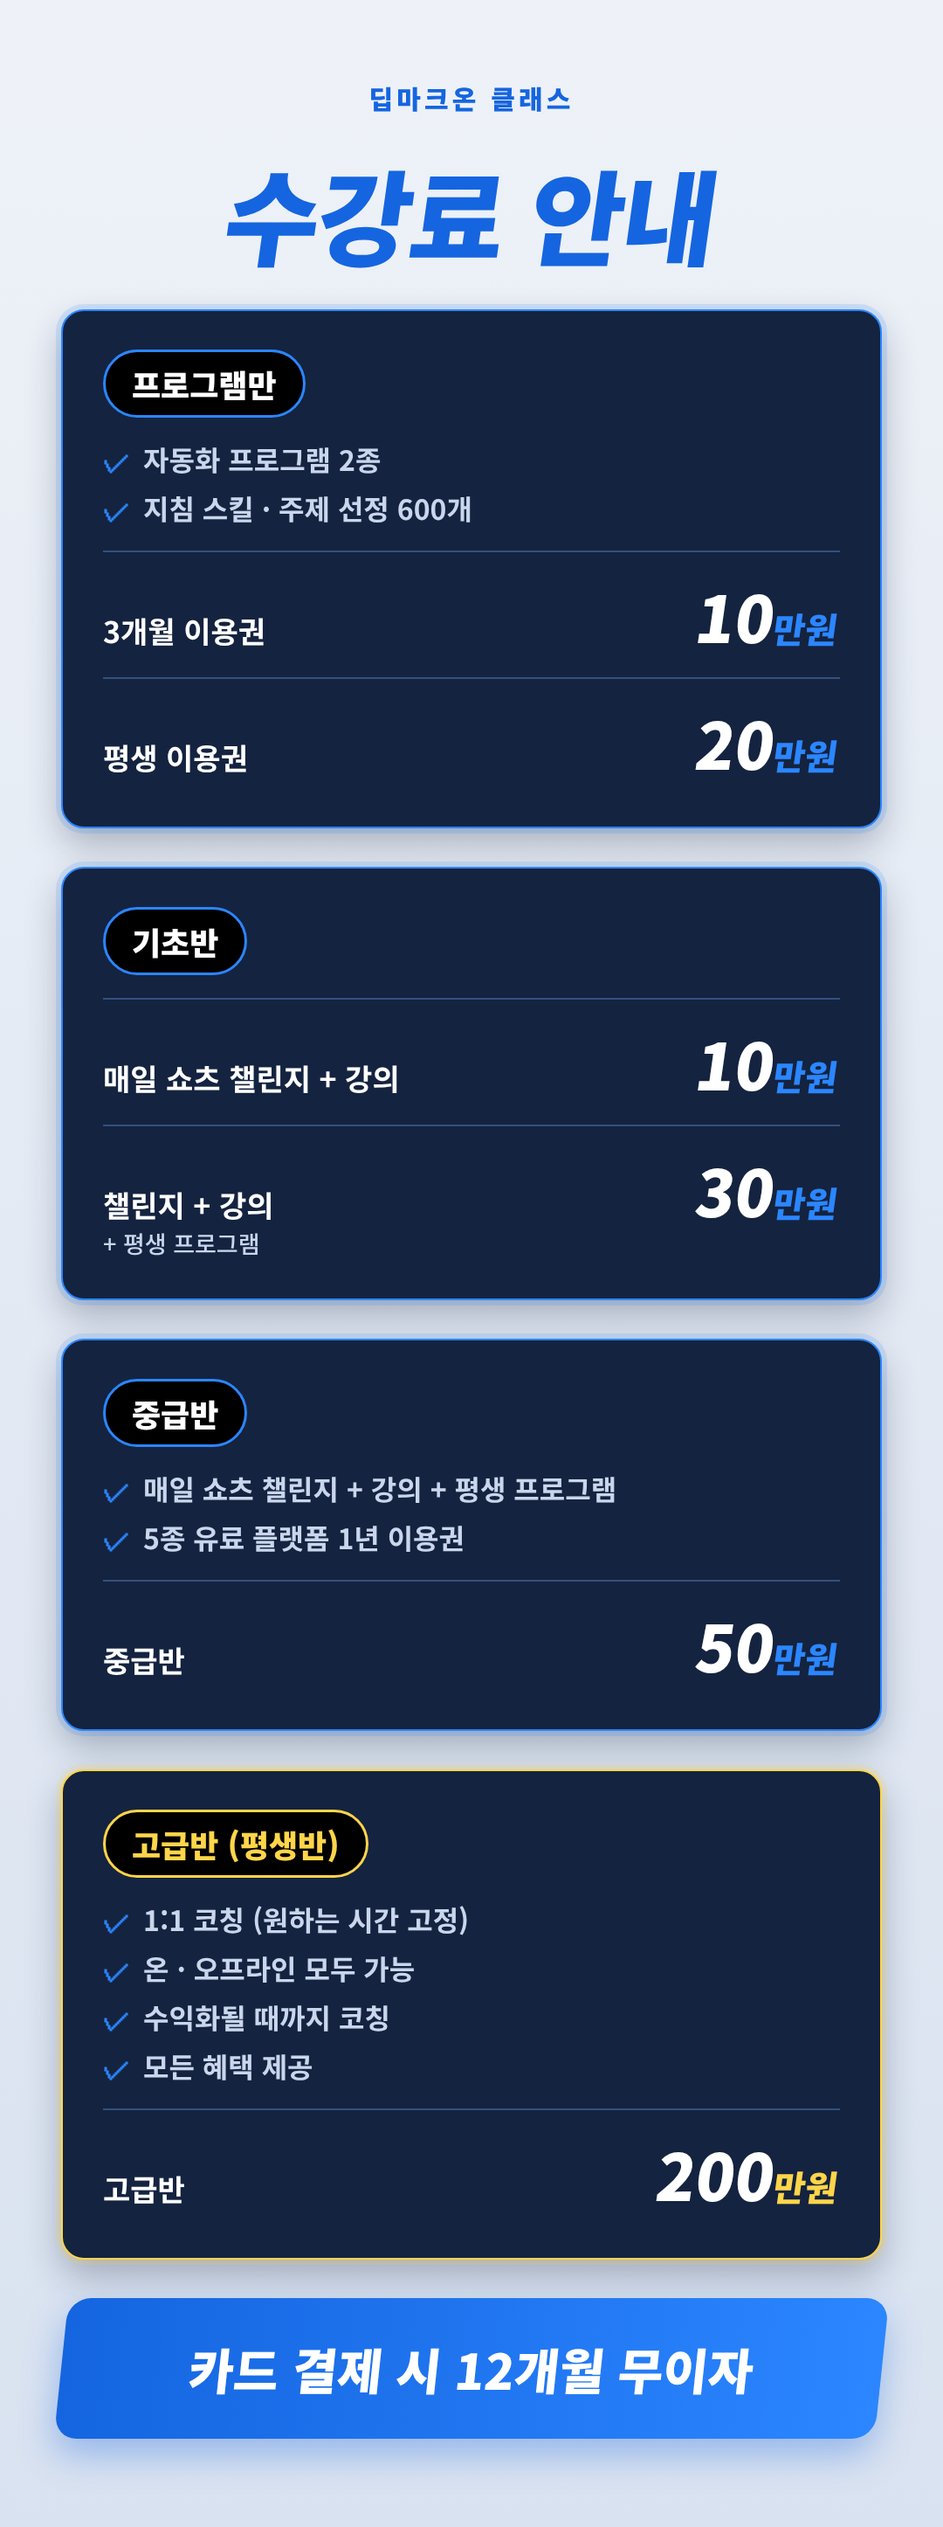
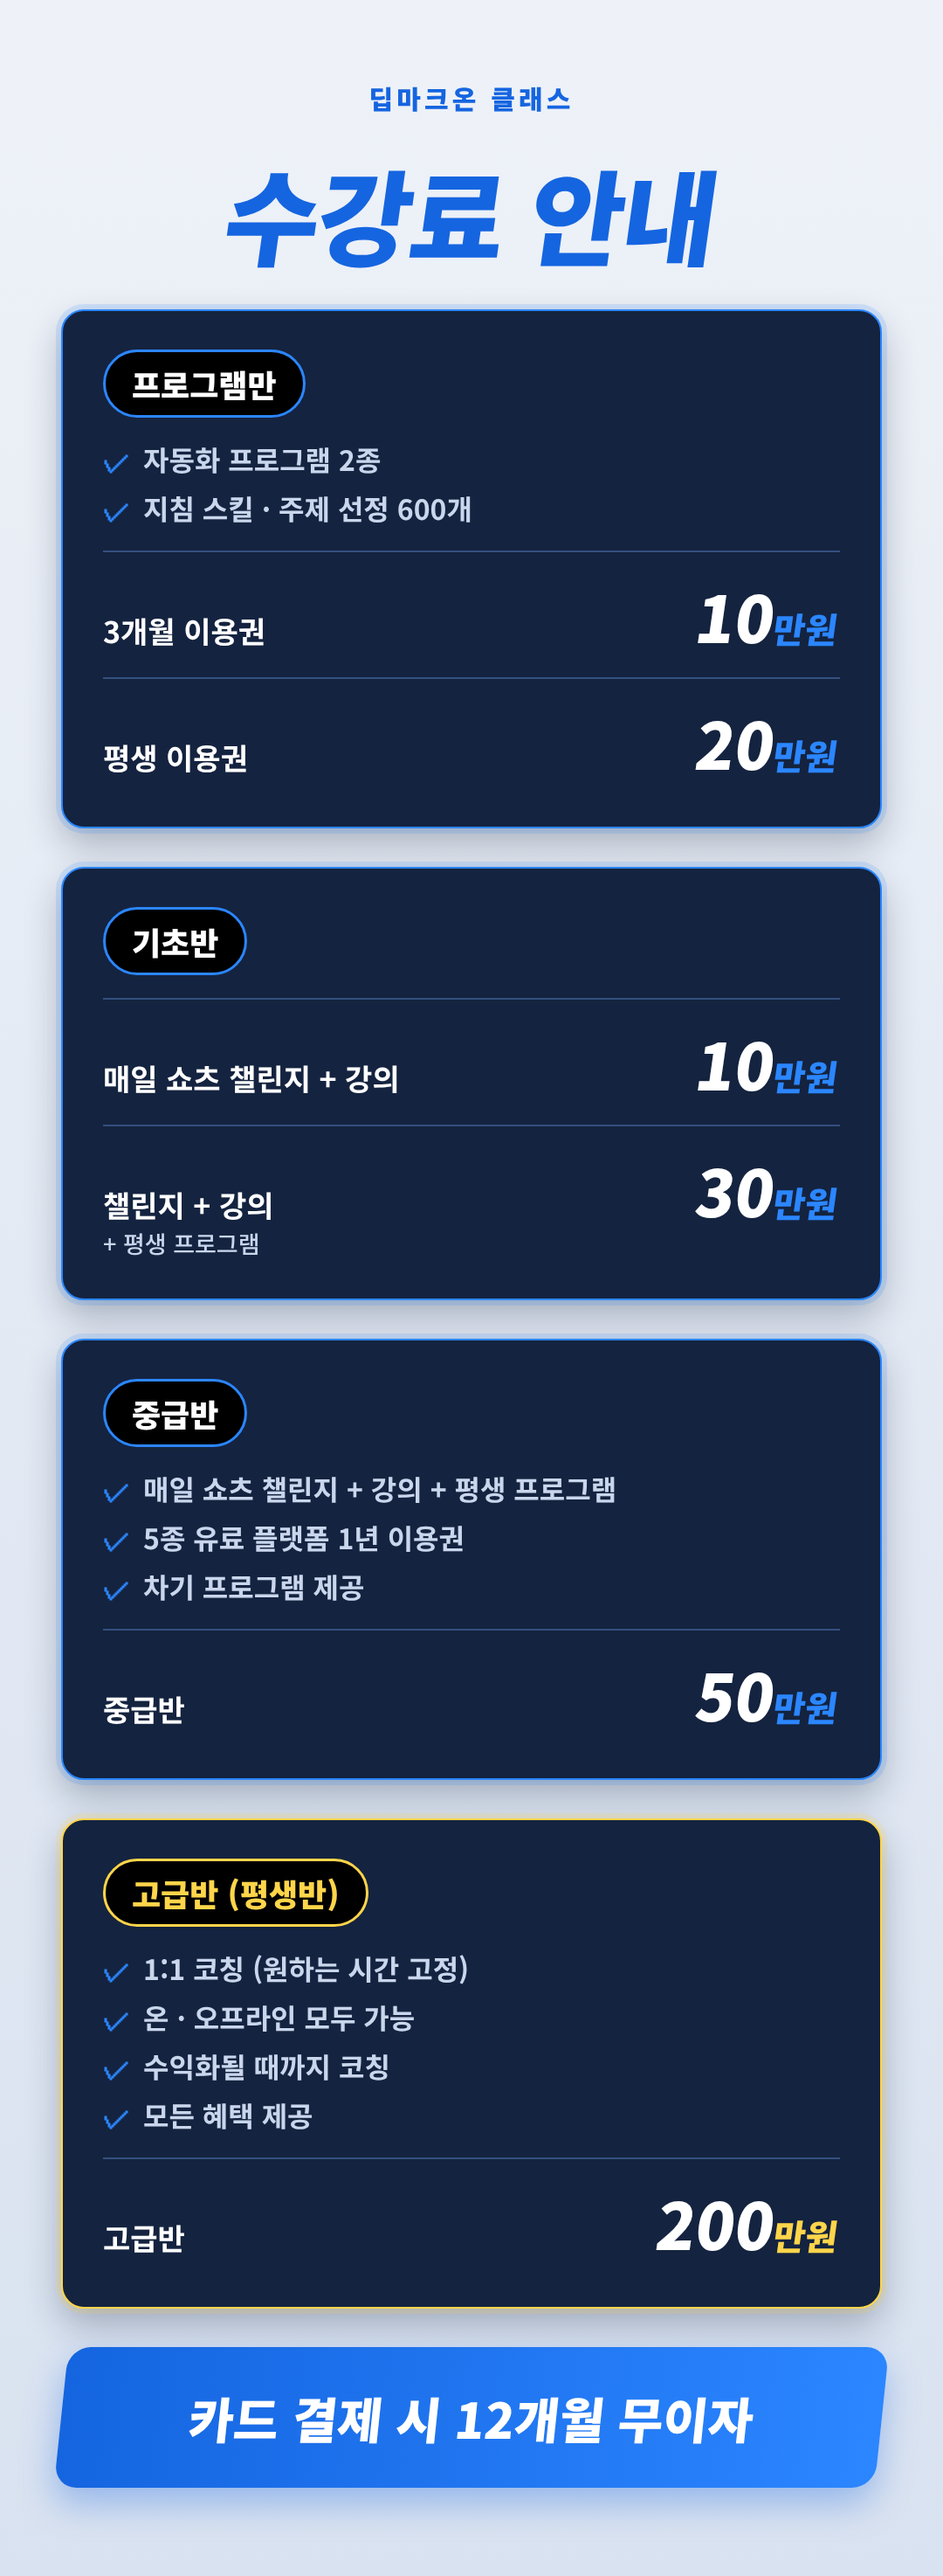
수강료 이미지 중급반에 차기 프로그램 제공 추가
Claude-Session: https://claude.ai/code/session_013xUGefzZAysaz3RxF6ietr

Changed region(s): [[0.0611, 0.0311, 0.9472, 0.6224], [0.0611, 0.6224, 0.9472, 0.9647]]

diff --git a/standalone/form-images/source.html b/standalone/form-images/source.html
@@ -251,7 +251,7 @@
 
   <div class="price-card">
     <span class="badge">중급반</span>
-    <ul class="desc"><li>매일 쇼츠 챌린지 + 강의 + 평생 프로그램</li><li>5종 유료 플랫폼 1년 이용권</li></ul>
+    <ul class="desc"><li>매일 쇼츠 챌린지 + 강의 + 평생 프로그램</li><li>5종 유료 플랫폼 1년 이용권</li><li>차기 프로그램 제공</li></ul>
     <div class="rows">
       <div class="row"><div class="k">중급반</div><div class="v">50<span>만원</span></div></div>
     </div>
